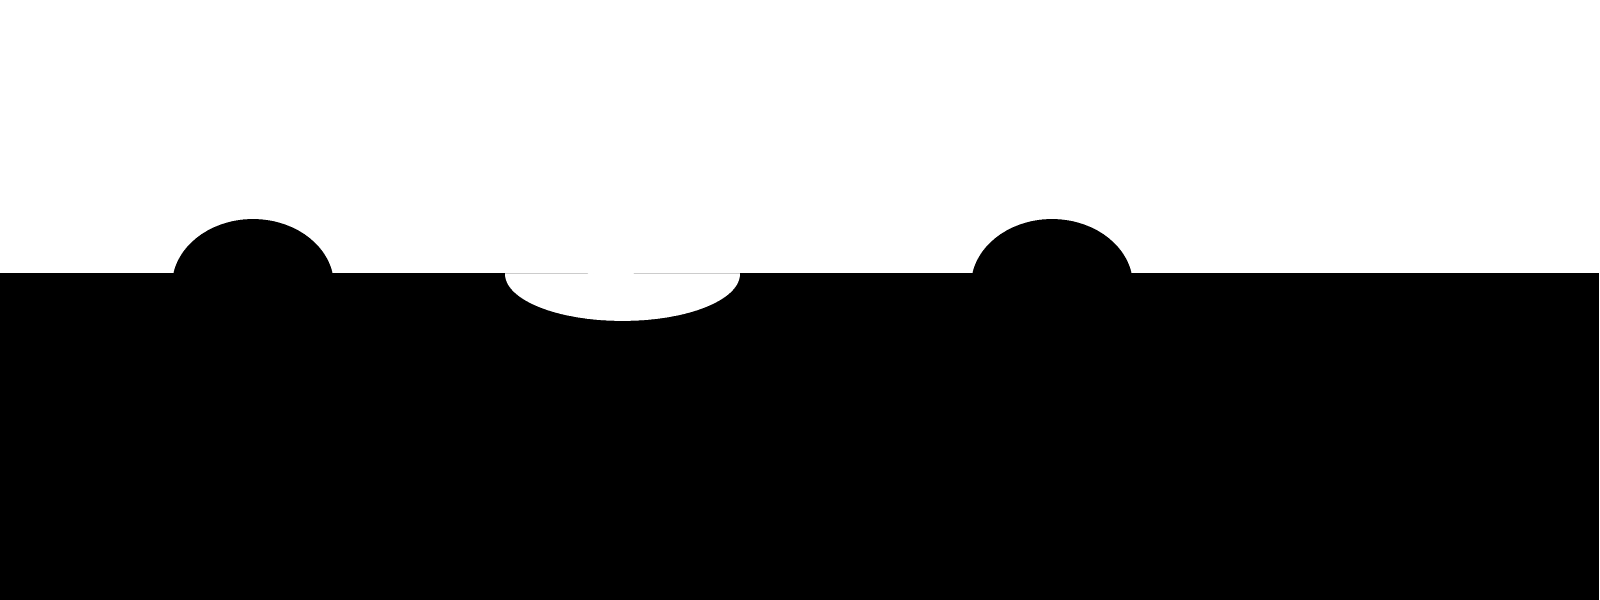
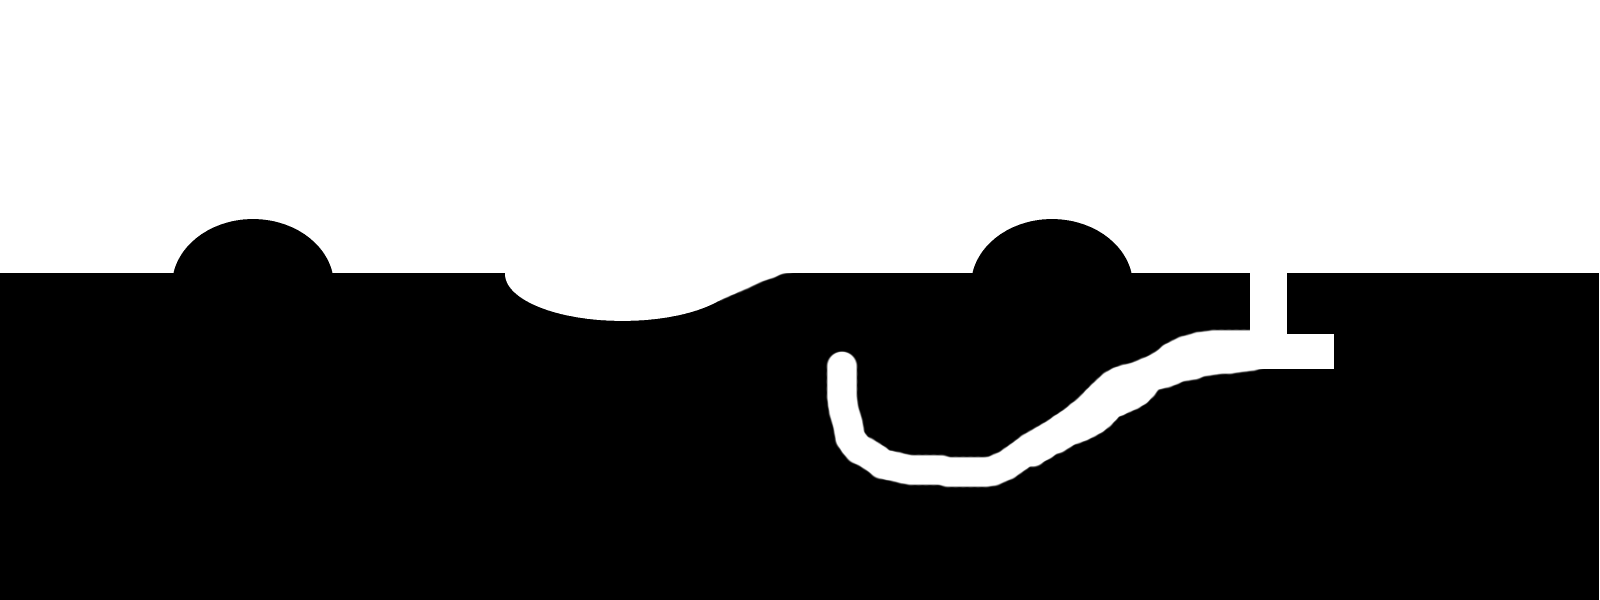
some refactoring (game.js) and some serious lemming action :D

Changed region(s): [[0.5, 0.45, 0.8438, 0.81], [0.4375, 0.45, 0.5, 0.51]]

diff --git a/1700Easel/src/lemming.js b/1700Easel/src/lemming.js
@@ -3,27 +3,28 @@
  */
 
 function Lemming() {
-	this.x=300;
+	this.x=0;
 	this.y=0;
 	this.circle;
 	this.direction=1;
-	this.maxDY=5;
 	this.height=10;
-	this.width=10;
+	this.width=10;	
+	
+	this.maxDY=8; //maximum pitch/slope (should be smaller than this.height)
+	this.speed=1.0; //might break collision if different than 1.0 
 }
 
 Lemming.prototype.create=function() {
 	this.circle = new createjs.Shape();
 	this.circle.graphics.beginFill("red").drawCircle(0,-this.height, this.height);
 	stage.addChild(this.circle);
-	//this.move=this.fall;
 }
 
 
 
 Lemming.prototype.draw=function() {
-	this.circle.x=this.x-currentScroll;
-	this.circle.y=this.y;
+	this.circle.x=parseInt(this.x-currentScroll);
+	this.circle.y=parseInt(this.y);
 }
 
 
@@ -41,17 +42,17 @@ Lemming.prototype.move=function(){
 
 
 Lemming.prototype.fall=function() {
-	this.y++;
+	this.y+=this.speed;
 }
 
 
 Lemming.prototype.hasFloor=function(){
-	return levelLoader.worldBitmapData.getPixel(this.x,this.y)==0;
+	return game.getWorldPixel(this.x,this.y)==0;
 }
 
 Lemming.prototype.againstWall=function(){
 	for(var aw=this.maxDY;aw<this.height;aw++){
-		if(levelLoader.worldBitmapData.getPixel(this.x+(this.direction),this.y-aw)==0){
+		if(game.getWorldPixel(this.x+(this.direction),this.y-aw)==0){
 			return true;
 		}
 	}
@@ -61,7 +62,7 @@ Lemming.prototype.againstWall=function(){
 Lemming.prototype.getDY=function(){
 	var dy=0;
 	while(dy<this.maxDY){
-		if(levelLoader.worldBitmapData.getPixel(this.x+this.direction,this.y-(dy+1))==0){
+		if(game.getWorldPixel(this.x,this.y-(dy+1))==0){
 			dy++;
 		}else{
 			return dy;
@@ -71,8 +72,8 @@ Lemming.prototype.getDY=function(){
 }
 
 Lemming.prototype.walk=function() {
-	this.x+=this.direction;
 	this.y-=this.getDY();
+	this.x+=this.direction*this.speed;
 }
 
 

diff --git a/1700Easel/src/main.js b/1700Easel/src/main.js
@@ -12,9 +12,7 @@ var mouseX=200;
 
 var bmp;
 var stage;
-var lemming;
-
-var levelLoader;
+var game;
 
 function init() {
 //Create a stage by getting a reference to the canvas
@@ -29,10 +27,8 @@ function init() {
 //    
     
     
-    
-    levelLoader = new LevelLoader("devLevel");
-    levelLoader.init();
-	
+    game = new Game();
+	game.init();
     
     createjs.Ticker.setFPS(60);
     createjs.Ticker.addEventListener("tick", tick);
@@ -49,25 +45,24 @@ function init() {
 function setImage() {
 	//bmp.x = 100;
 	//bmp.y = 100;
-	stage.addChild(levelLoader.worldBitmap);
+	stage.addChild(game.levelLoader.worldBitmap);
 	//Update stage will render next frame
-	lemming=new Lemming();
-    lemming.create();
     
     stage.update();
     
     
 }
 
+
 var alreadyInitialized=false;
 
 function tick() {
-	if (!alreadyInitialized && levelLoader.loaded) {
+	if (!alreadyInitialized && game.levelLoader.loaded) {
 		alreadyInitialized=true;
-		setImage();
+		//setImage();
 	}
 	else {
-		if (levelLoader.loaded) {
+		if (game.levelLoader.loaded) {
 			
 			if (mouseX>canvasSize-100) {
 	    		if (currentScroll<=imageSize-canvasSize)
@@ -78,11 +73,10 @@ function tick() {
 	    			currentScroll-=(100-mouseX)/8.0;
 	    	}
 			
-			levelLoader.worldBitmap.x=0-currentScroll;
-			lemming.move();
-			lemming.move();
-			lemming.move();
-			lemming.draw();
+			game.levelLoader.worldBitmap.x=0-currentScroll;
+			
+			game.update();
+			
 		}
 		stage.update();
 	}

diff --git a/1700Easel/src/levelLoader.js b/1700Easel/src/levelLoader.js
@@ -16,7 +16,16 @@ LevelLoader.prototype.init = function() {
 	this.createDirPath();
 	this.worldHtmlImage.src = this.dirPath+"/world.png";
 	this.worldHtmlImage.name = 'world';
-	this.worldHtmlImage.onload = setWorldImage;
+
+	var that = this;
+	
+	this.worldHtmlImage.onload = function(event){
+		that.worldBitmapData = new createjs.BitmapData(that.worldHtmlImage);
+		that.worldBitmap = new createjs.Bitmap(that.worldBitmapData.canvas);
+		that.loaded=true;
+		stage.addChild(that.worldBitmap);
+		game.start();
+	};
 }
 
 LevelLoader.prototype.createDirPath= function () {
@@ -24,9 +33,8 @@ LevelLoader.prototype.createDirPath= function () {
 	console.log("initializing level: "+this.dirPath);
 }
 
-function setWorldImage()  {
-	levelLoader.worldBitmapData = new createjs.BitmapData(levelLoader.worldHtmlImage);
-	levelLoader.worldBitmap = new createjs.Bitmap(levelLoader.worldBitmapData.canvas);
-	levelLoader.loaded=true;
-	
+LevelLoader.prototype.getWorldPixel = function(px,py){
+	if(py<0)return -1;
+	return this.worldBitmapData.getPixel(px,py);
 }
+

diff --git a/1700Easel/src/game.js b/1700Easel/src/game.js
@@ -1,0 +1,43 @@
+function Game(){
+	this.levelLoader;
+	this.maxLemmings=33;
+	this.lemmings = [];
+	
+	this.speedFactor=3; //makes the game n-times faster (use very high numbers to check collision performance)
+}
+
+Game.prototype.init = function(){
+    this.levelLoader = new LevelLoader("devLevel");
+    this.levelLoader.init();
+}
+
+Game.prototype.start = function(){
+    this.addLemmings();
+	
+}
+
+Game.prototype.getWorldPixel = function(px,py){
+	return this.levelLoader.getWorldPixel(px,py);
+}
+
+Game.prototype.addLemmings = function(){
+	for(var i=0;i<this.maxLemmings;i++){
+		var lemming = new Lemming();
+	    lemming.create();
+	    lemming.x=240;
+	    lemming.y=i*-50;
+	  	this.lemmings.push(lemming);
+	    //this.lemmings[i]=lemming;
+	}
+	
+}
+
+Game.prototype.update = function(){
+	for(var i=0;i<this.lemmings.length;i++){
+		var lemming = this.lemmings[i];
+		for(var s=0;s<this.speedFactor;s++){
+			lemming.move();
+		}
+		lemming.draw();
+	}
+}

diff --git a/1700Easel/index.html b/1700Easel/index.html
@@ -6,6 +6,7 @@
 <script src="src/main.js"></script>
 <script src="src/lemming.js"></script>
 <script src="src/levelLoader.js"></script>
+<script src="src/game.js"></script>
 <script src="lib/BitmapData.js"></script>
 <title>Title</title>
 </head>
